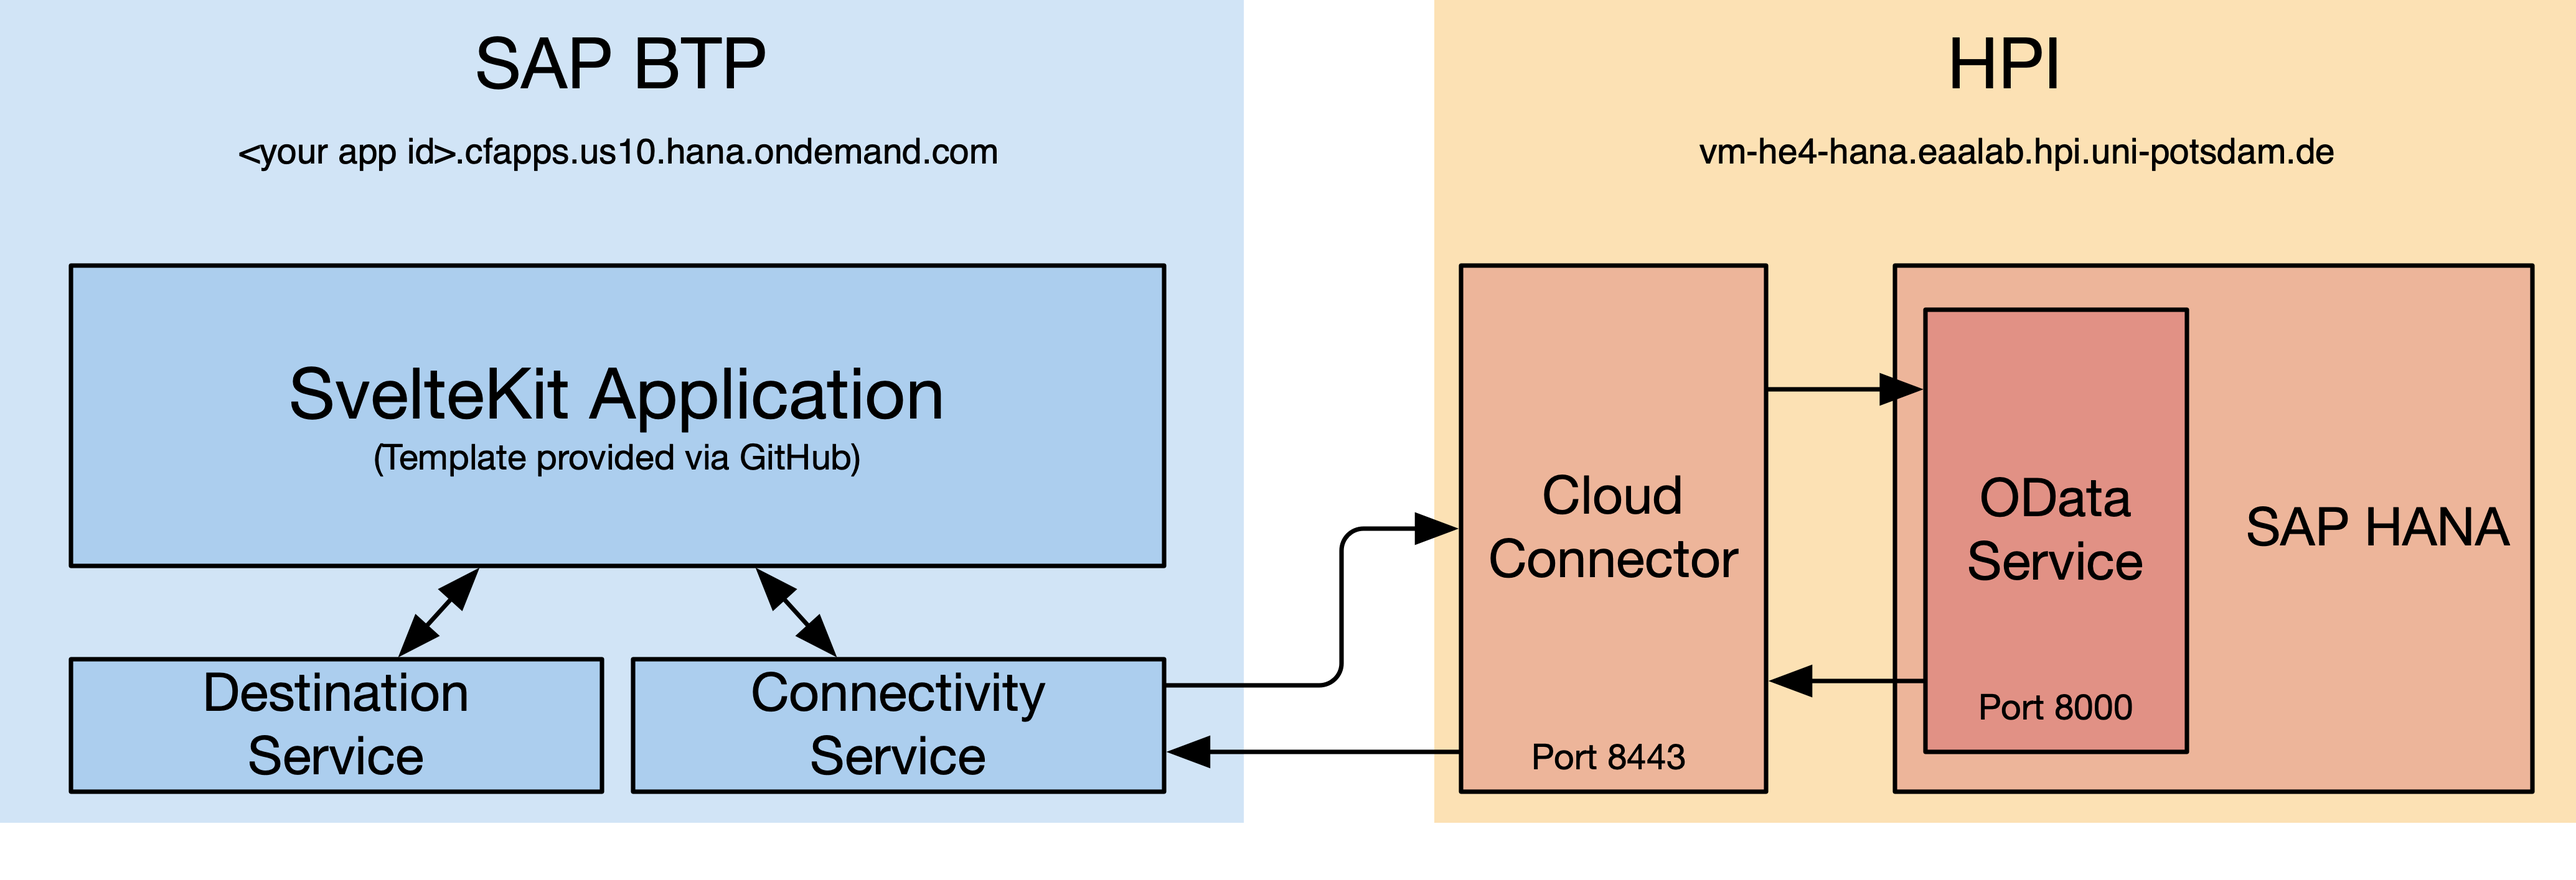
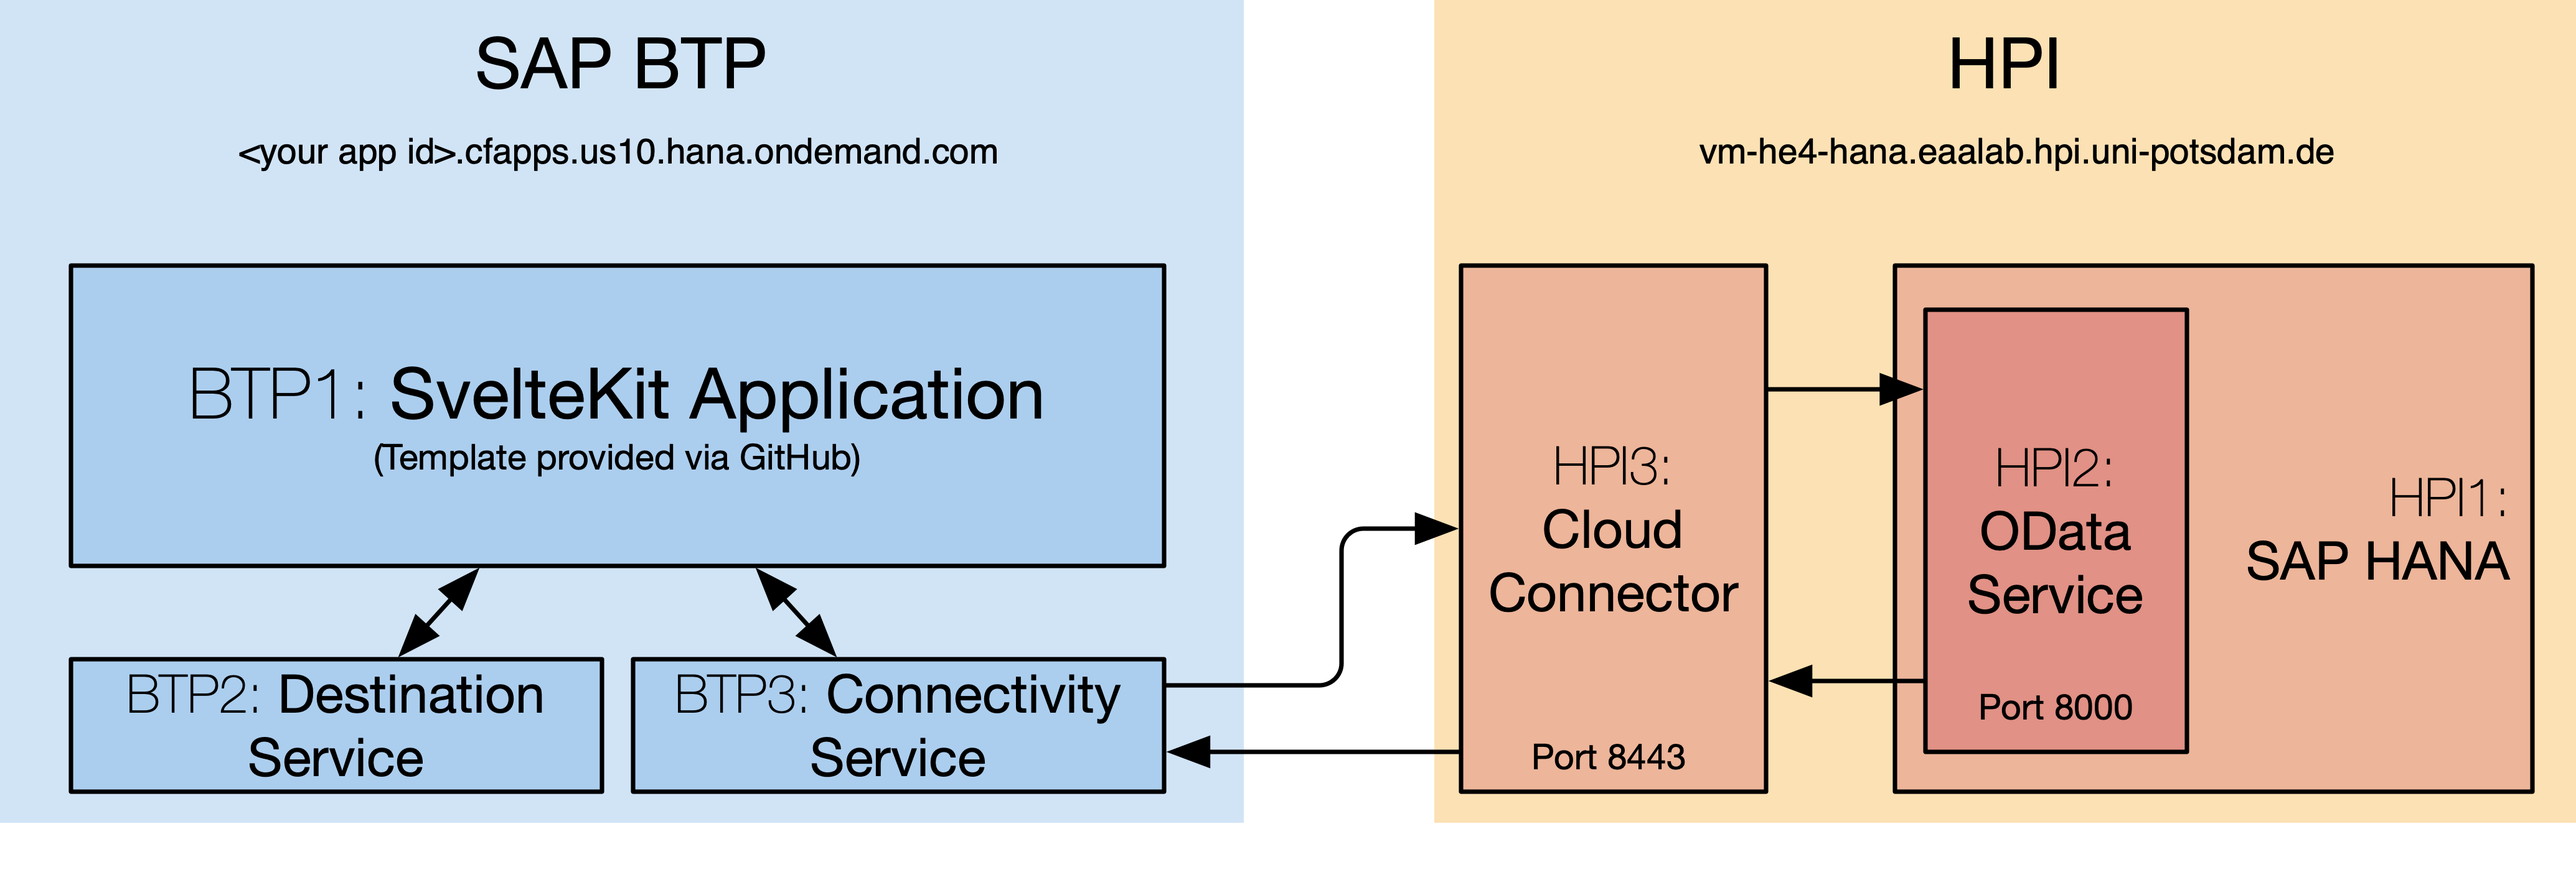
Add images and instructions to TuK excercise

diff --git a/README.md b/README.md
@@ -1,40 +1,56 @@
 # BTP Exercise
+
 ## Goal of the Exercise
 
-This exercise should guide you through the SAP business technology platform (BTP). The goal of the exercise is to give you an impression of cloud platforms based on the example of the BTP.
+This exercise should give a first impression about cloud platforms using the example of the SAP business technology platform (BTP). The SAP BTP is a Platform as a Service (PaaS) offering by SAP that helps you to connect to connect data and business processes of your enterprise. The goal of this exercise is to show you basic functionalities of the SAP BTP prior to our block week.
+
+> Note: We only use the SAP BTP as an example for cloud platforms. Other cloud platforms such as Google Platform, Microsoft Azure and Amazon AWS are also capable to enhance your business.
 
 ## Exercise
 
-Many enterprises use a hybrid setup using on-premise and cloud-based software simultaneously. In this exercise, we deploy a small application to a cloud platform that requests data from an on-premise SAP HANA instance. The instance is located at the HPI and (normally) only accessible within the network or via a VPN. In this exercise, you will experience how to deploy an application to the cloud which uses data relying on an on-premise SAP HANA database. As cloud platform we use the SAP Business Technologie Platform (BTP) for this exercise. However, other cloud platforms such as Google Cloud Platform, Microsoft Azure, or Amazon AWS can.
+Many enterprises use a hybrid setup using on-premise and cloud-based software simultaneously. Applications deployed in the cloud often access data persisted in the on-premise systems of a company. Imagine HPI's purchasing department wants to create a cloud application to visualize how much money spend with every vendor, extending the functionality of their ERP system by using the SAP BTP.
 
-### Prerequisites
+In this exercise, we deploy a small application to a cloud platform that requests data from an on-premise SAP HANA instance. The instance is located at the HPI and (normally) only accessible within the network or via a VPN. You will learn how to deploy an application to the SAP BTP, which uses data relying on an on-premise SAP HANA database.
 
-- [Node 16 including NPM](https://nodejs.org/en/download/)
-- [Git](https://git-scm.com/)
-
-### Architecture
-
-The architecture of our exercise is divided into two parts: first, services and applications replying at the HPI, and second your applications deployed on the SAP BTP.
+Most cloud applications consist of multiple microservices. The architecture of our exercise is divided into two parts: first, services and applications replying at the HPI, and second your applications deployed on the SAP BTP.
 
 ![](img/structure.png)
 
-We already prepared applications deployed at the HPI for you (HPI1 - HPI3). 
+In the following, we briefly describe the functionality of each application/ service of the exercise architecture. 
 
-*HPI1 SAP HANA* The SAP HANA is an in-memory database developed by SAP. For this exercise the SAP HANA stores multiple tables from the ERP S/4 HANA which should be familier to you from exercise 1. For this exercise, we do not query the database via TCP, but use an so called OData Service to access data via HTTP.
+**HPI1: SAP HANA** The SAP HANA is an in-memory database developed by SAP. The SAP HANA is hosted at ``vm-reset.eaalab.hpi.uni-potsdam.de``. The SAP HANA stores multiple tables from the ERP S/4HANA which should be familier to you from exercise 1. For this exercise, instead of querying the database via TCP, we use an so called OData Service to access data via HTTP.
 
-*HPI2 OData Service*
+**HPI2: OData Service**  An OData Service is a RESTful API which follows the [Open Data Protocol standard](https://www.odata.org/). The standard exists in multiple versions, however we use OData version 2. For you convience, the OData Service is already implemented as a so called XS Service directly on the SAP HANA. The API is accesasable via ``http://vm-he4-hana.eaalab.hpi.uni-potsdam.de:8000/odataservice/hello.xsodata/VBAK/?$format=json``.
 
-*HPI3 Cloud Connector*
+**HPI3: SAP Cloud Connector**
+[SAP Cloud Connector (SCC)](https://help.sap.com/docs/CP_CONNECTIVITY/cca91383641e40ffbe03bdc78f00f681/e6c7616abb5710148cfcf3e75d96d596.html) is a software that connects the SAP BTP and existing on-premise systems. We already deployed one instance on the same machine as our SAP HANA. In course of this exercise, you will connect your SAP BTP subaccount to the SCC in order to access the HPI on-premise SAP HANA. The SCC is accessible ``https://vm-he4-hana.eaalab.hpi.uni-potsdam.de:8443/``.
 
-Most cloud applications consist of multiple microservices. In this exercise, we create two services and one application on the SAP BTP. 
+**BTP1: SvelteKit Application**
+[SvelteKit](https://kit.svelte.dev/) is a framework for building web applications. You will use it to develop an application that queries data from the on-premise SAP HANA and deploy it to the SAP BTP.
+
+**BTP2: Destination Service**
+The Destination service lets you retrieve the backend destination details you need to configure applications in SAP BTP's Cloud Foundry environment.
+
+**BTP3: Connectivity Service**
+SAP BTP's Connectivity service allows you to establish secure and reliable connectivity between your cloud applications and on-premise systems running in isolated networks.
+
+In this exercise, we create two services (provided by SAP) and one application (that you have to program) on the SAP BTP. 
+
+### Prerequisites
+To work on the excersie you need:
+
+- [Node 16 including NPM](https://nodejs.org/en/download/)
+- [Git](https://git-scm.com/)
+- Editor (we recommend [Visual Studio Code](https://code.visualstudio.com/))
+- A phone number (for the SAP BTP account creation)
 
 ### Account creation
 
 Before we can create services on the cloud platform, we have to create a free account on the SAP BTP.  
 
-0. In case you do not have an SAP BTP Account: Please [register](https://www.sap.com/products/business-technology-platform/trial.html?trial=https%3A%2F%2Fwww.sap.com%2Fregistration%2Ftrial.908cb719-0e03-421c-a091-daca045f0acc.html) for a free trail account.
+0. In case you do not have a SAP BTP Account: Please [register](https://www.sap.com/products/business-technology-platform/trial.html?trial=https%3A%2F%2Fwww.sap.com%2Fregistration%2Ftrial.908cb719-0e03-421c-a091-daca045f0acc.html) for a free trail account.
 1. [Login](https://account.hana.ondemand.com/) into an account for the SAP BTP (You can skip the process of validating your phone number)
-2. Select US East (VA) - AWS as region for our trail account.
+2. Select *US East (VA) - AWS* as region for our trail account.
 3. Wait until your account was fully created. 
 4. Click on *Go To Your Trial Account*.
 
@@ -61,6 +77,7 @@ In order to access the SAP HANA DB using the SAP Cloud Connector hosted at our r
     ![](img/service-marketplace.png)
 3. Search for *Connectivity Service* and click on *Create*:
     ![](img/create-connectivity-service.png)
+<!-- TODO: change screenshot -->
 4. Follow the setup (you don't have to enter parameters):
     ![](img/setup.png)
 5. Check the status under *Instances* (status should be *created* after a few moments):
@@ -68,11 +85,11 @@ In order to access the SAP HANA DB using the SAP Cloud Connector hosted at our r
 6. Voilà!
 
 ### Connect Your BTP Account To The On-prom Cloud Connector
-As described above, we use the [SAP Cloud Connector](https://blogs.sap.com/2022/02/03/cloud-connector-explained-in-simple-terms/) (SCC) to enable SAP cloud products to connect to the on-premise systems in our own landscape. It basically tunnels the requests.
+As described above, we use the [SCC](https://blogs.sap.com/2022/02/03/cloud-connector-explained-in-simple-terms/) to enable SAP cloud products to connect to the on-premise systems in our own landscape. It basically tunnels the requests.
 
-Please follow these steps to configure the SAP Cloud Connector to connect your SAP BTP account:
+Please follow these steps to configure the SCC to connect your SAP BTP account:
 
-**Please note that you all share one instance since the SAP Cloud Connector does not support proper user management. Do not delete the subaccounts of your fellow students! We will find you!** 
+>Please note that you all share one instance since the SAP Cloud Connector does not support proper user management. Do not delete the subaccounts of your fellow students! We will find you!
 
 1. The instance running at EPIC is available [here](https://vm-he4-hana.eaalab.hpi.uni-potsdam.de:8443/). Please open it and use the following credentials to log in:
     ````
@@ -92,31 +109,66 @@ Please follow these steps to configure the SAP Cloud Connector to connect your S
     ![](img/switch-subaccounts.png)
     6. Connect the on-premise HANA to the cloud by providing a mapping from the virtual host (vm-he4-hana.eaalab.hpi.uni-potsdam.de) to the internal host (localhost):
     ![](img/add-subacc-1.png)
+    Back-end type: ````SAP HANA````
     ![](img/add-subacc-2.png)
+    Protocol: ````HTTP````
     ![](img/add-subacc-3.png)
+    Internal host: ````localhost````, internal port: ````8000````
     ![](img/add-subacc-4.png)
+    Virtual host: ````vm-he4-hana.eaalab.hpi.uni-potsdam.de````, virtual port: ````8000````
     ![](img/add-subacc-5.png)
+    Principal type: ````None````
     ![](img/add-subacc-6.png)
+    Host In Request Header: ````Use Virtual Host````
     ![](img/add-subacc-7.png)
+    Description: ````<optional>````
     ![](img/add-subacc-8.png)
+    Click the *Check Internal Host* checkbox:
     ![](img/add-subacc-9.png)
+    Click on the newly created entry and press the *+* button: 
     ![](img/add-subacc-10.png)
     Add the corresponding ressources by adding the URL path ``/`` and save:
     ![](img/add-subacc-11.png)
+    Back on the SAP BTP, you should now see our SAP HANA under *Cloud Connectors*:
+    ![](img/btp-scc.png)    
 3. You did it! We can leave the SCC now and start building our app.
+
 ### GitHub Clone
 
-For your convenience, we prepared a small [Svelte](https://svelte.dev/) application using [SvelteKit](https://kit.svelte.dev/). (You do not need to understand what Svelte is doing, however it is a cool framework for frontend development) Clone the project via g
+For your convenience, we prepared a small [Svelte](https://svelte.dev/) application using [SvelteKit](https://kit.svelte.dev/). (You do not need to understand what Svelte is doing, however it is a cool framework for frontend development) Clone the project via git clone and install the dependencies.
 
 ````
-> cf login
-API endpoint: https://api.cf.us10.hana.ondemand.com
-Email: <your account mail>
-Password: <your pw>
+> git clone <TODO>
+> npm install
 ````
 
 ### Deploy Your Application
-To deploy your application, 
+To deploy your application, you need to create a ``manifest.yml`` file in the root folder as described [here](https://docs.cloudfoundry.org/devguide/deploy-apps/manifest.html):
+
+
+```yaml
+applications:
+  - name: btk-tuk
+    path: ./
+    buildpacks:
+      - nodejs_buildpack
+    memory: 256M
+    command: node dist/index.js
+    random-route: true
+    services:
+      - tw-connectivity-service
+      - cred-store
+      - destination-service
+```
+
+execute the following account:
+```shell
+> npm run build && cf push
+```
+In your Cloud Foundry spaces, you can find your deployed applications and access them:
+![](img/cf-spaces-0.png)
+![](img/cf-spaces-1.png)
+![](img/cf-spaces-2.png)
 
 ### Optional: Clean-up 
 - delete account
